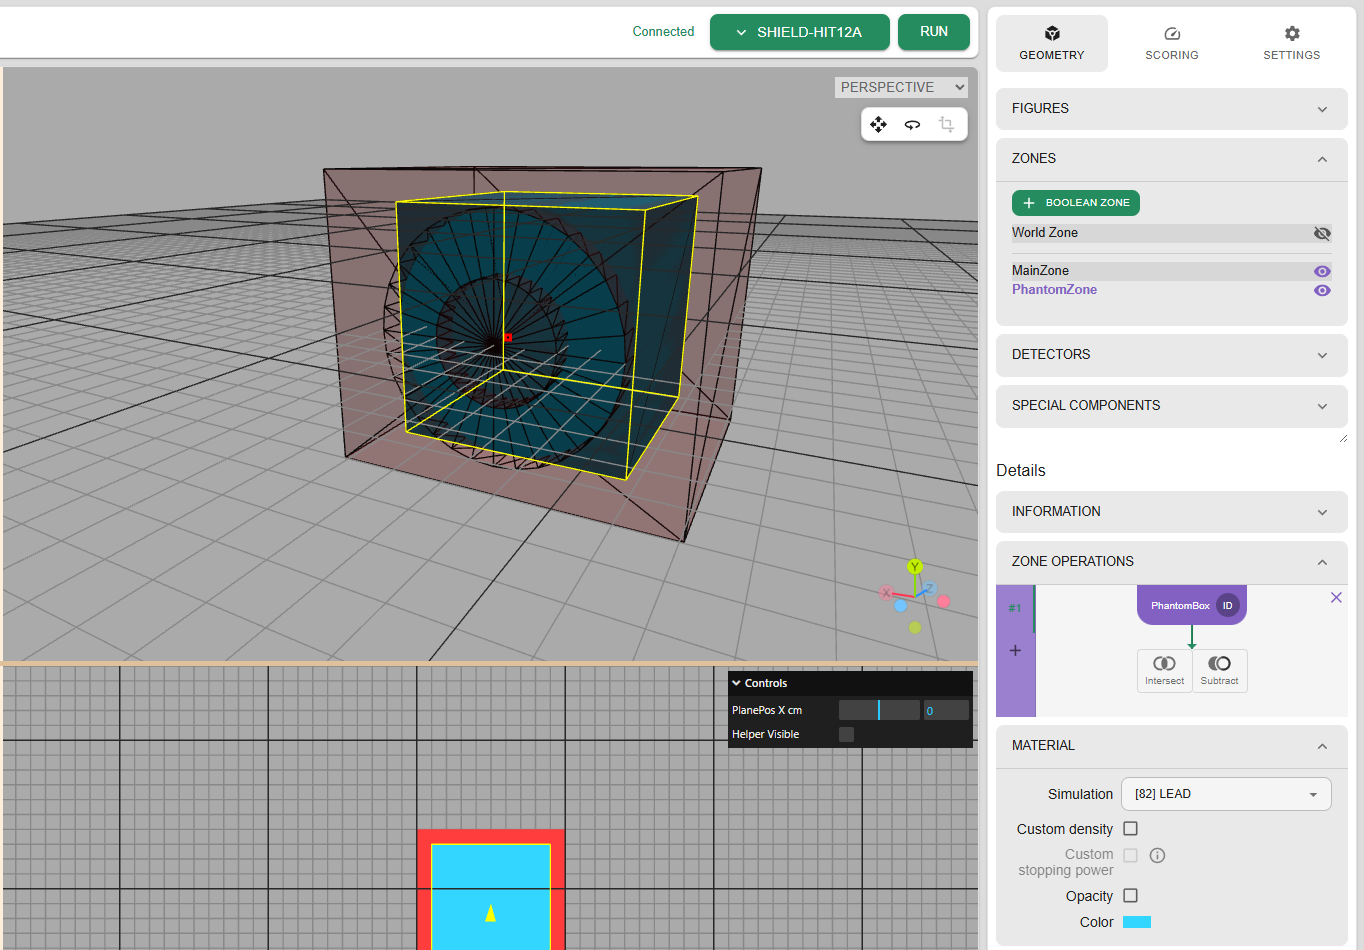
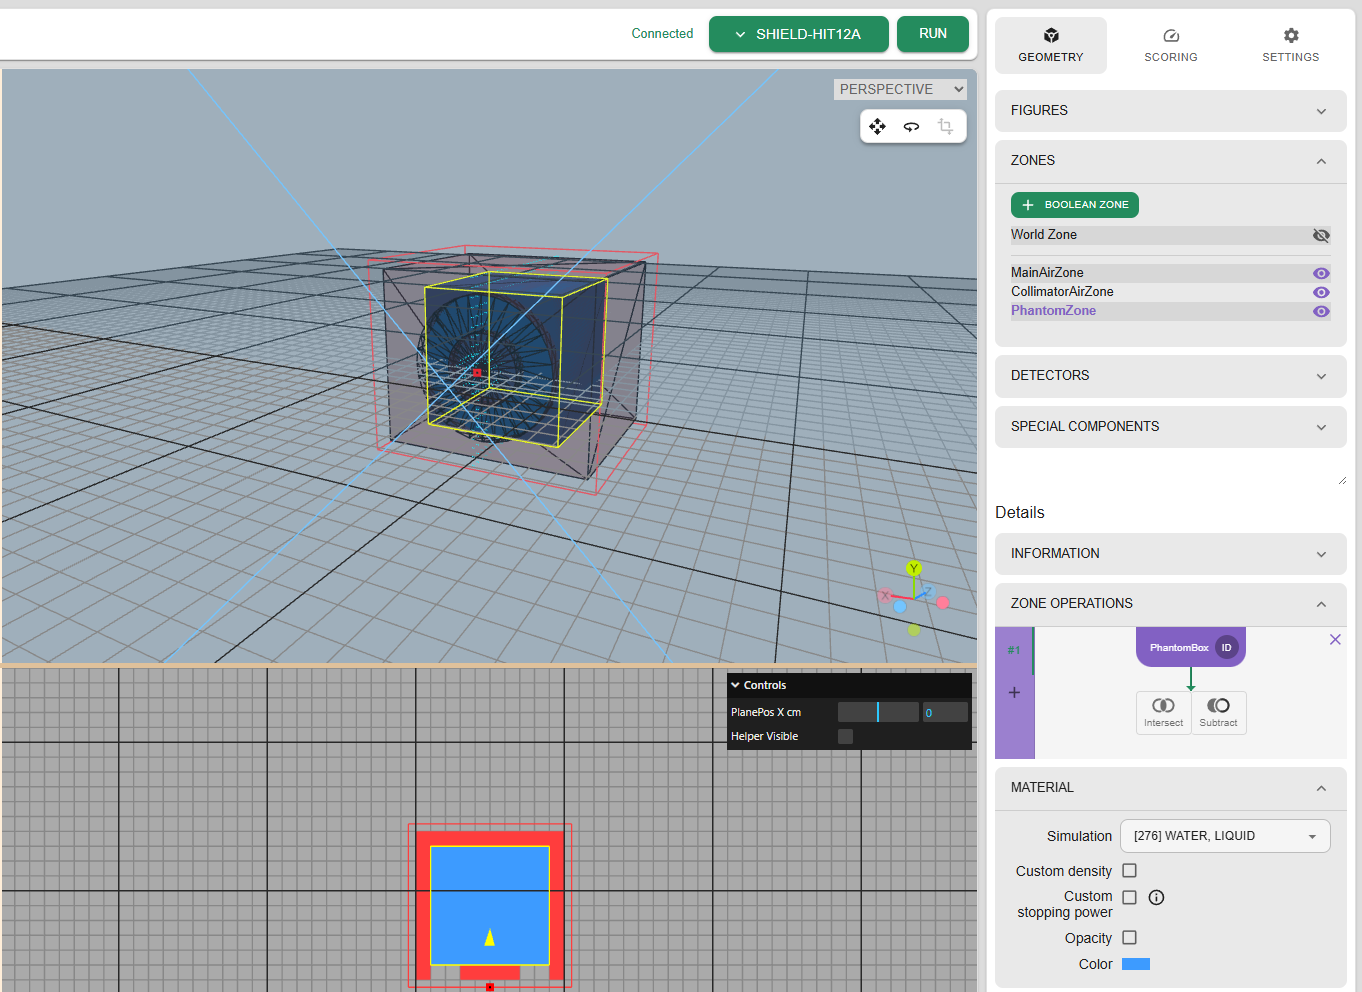
Fix geometry instructions for zone operations

diff --git a/docs/geometry.md b/docs/geometry.md
@@ -128,25 +128,30 @@ or by going to Geometry tab in right menu and expanding ZONES section in GEOMETR
 > [!NOTE]
 > A special "World Zone" which represents the whole simulation environment is defined by default, and can't be removed.
 
-### Main zone
-
-We start by defining first zone from the main box, and setting its name to "MainZone", just like for figures.
+### Air zones
 
 Zones describe a volume of space by combining multiple figures using boolean operations to define shape,
 and define physical material that the volume is made of.
 
 > [!IMPORTANT]
-> Defining a volume operations requires special considerations. Each volume of space should belong to exactly
+> Defining zone operations requires special considerations. Each volume of space should belong to exactly
 > one Zone so that it is clear for the simulator which material the particle is going through.
 > This means that the volume enclosing another volume with different material needs to have a cutout that will fit the inner volume.
 
-Let's expand ZONE OPERATIONS and define the MainZone.
-The MainZone is the Air that fills the empty space around the phantom and the collimator.
-We need to subtract both the phantom and the collimator.
-- For the phantom, it only requires subtracting the phantom figure
-- For the collimator, we need to subtract the whole outer cylinder, and add back the inner cylinder
+Let's expand ZONE OPERATIONS and define the MainAirZone and CollimatorAirZone.
+Together they represent the air that fills the empty space around the phantom and the collimator.
+To get precisely the air volume, we need to subtract both the phantom and the collimator.
+- For the phantom, it only requires subtracting the phantom figure.
+- For the collimator, we need to subtract the whole outer cylinder, and add back the inner cylinder. The "adding back"
+is performed with second zone.
+
+Defining the MainAirZone is shown below:
 
 ![Defining zone operations for MainZone](assets/geometry/zone_operations.gif)
+
+CollimatorAirZone is then simply:
+
+![Collimator air zone](assets/geometry/collimator_air_zone.png)
 
 Zones are visualized in the 3D view by solid colors. We can see the cutouts for the phantom and the collimator.
 
